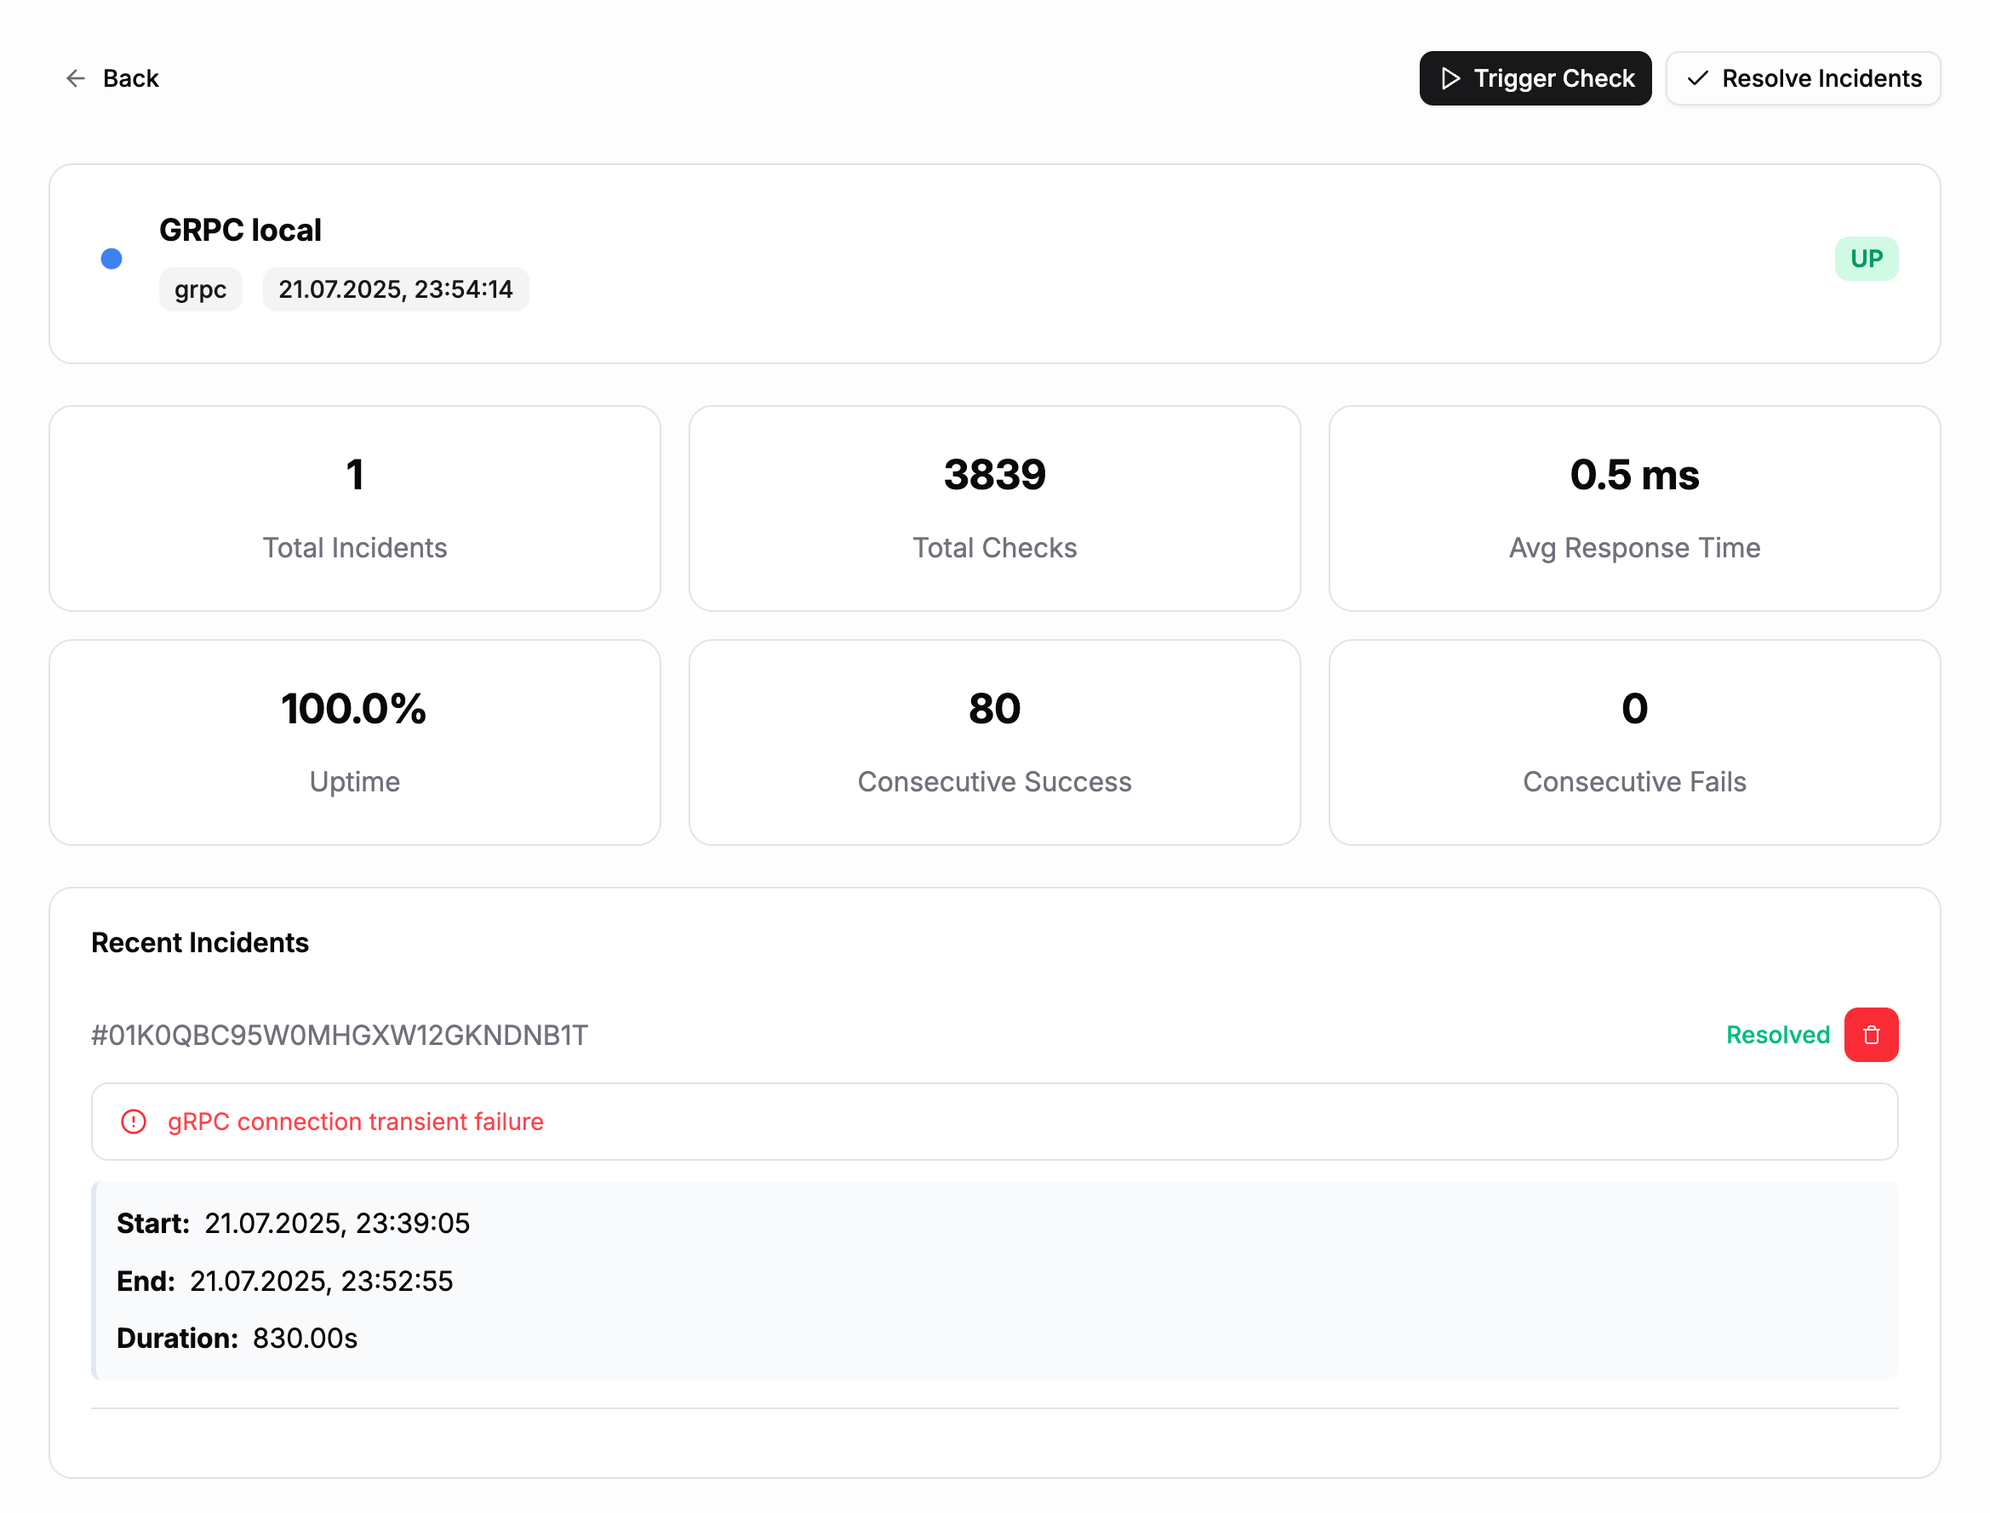
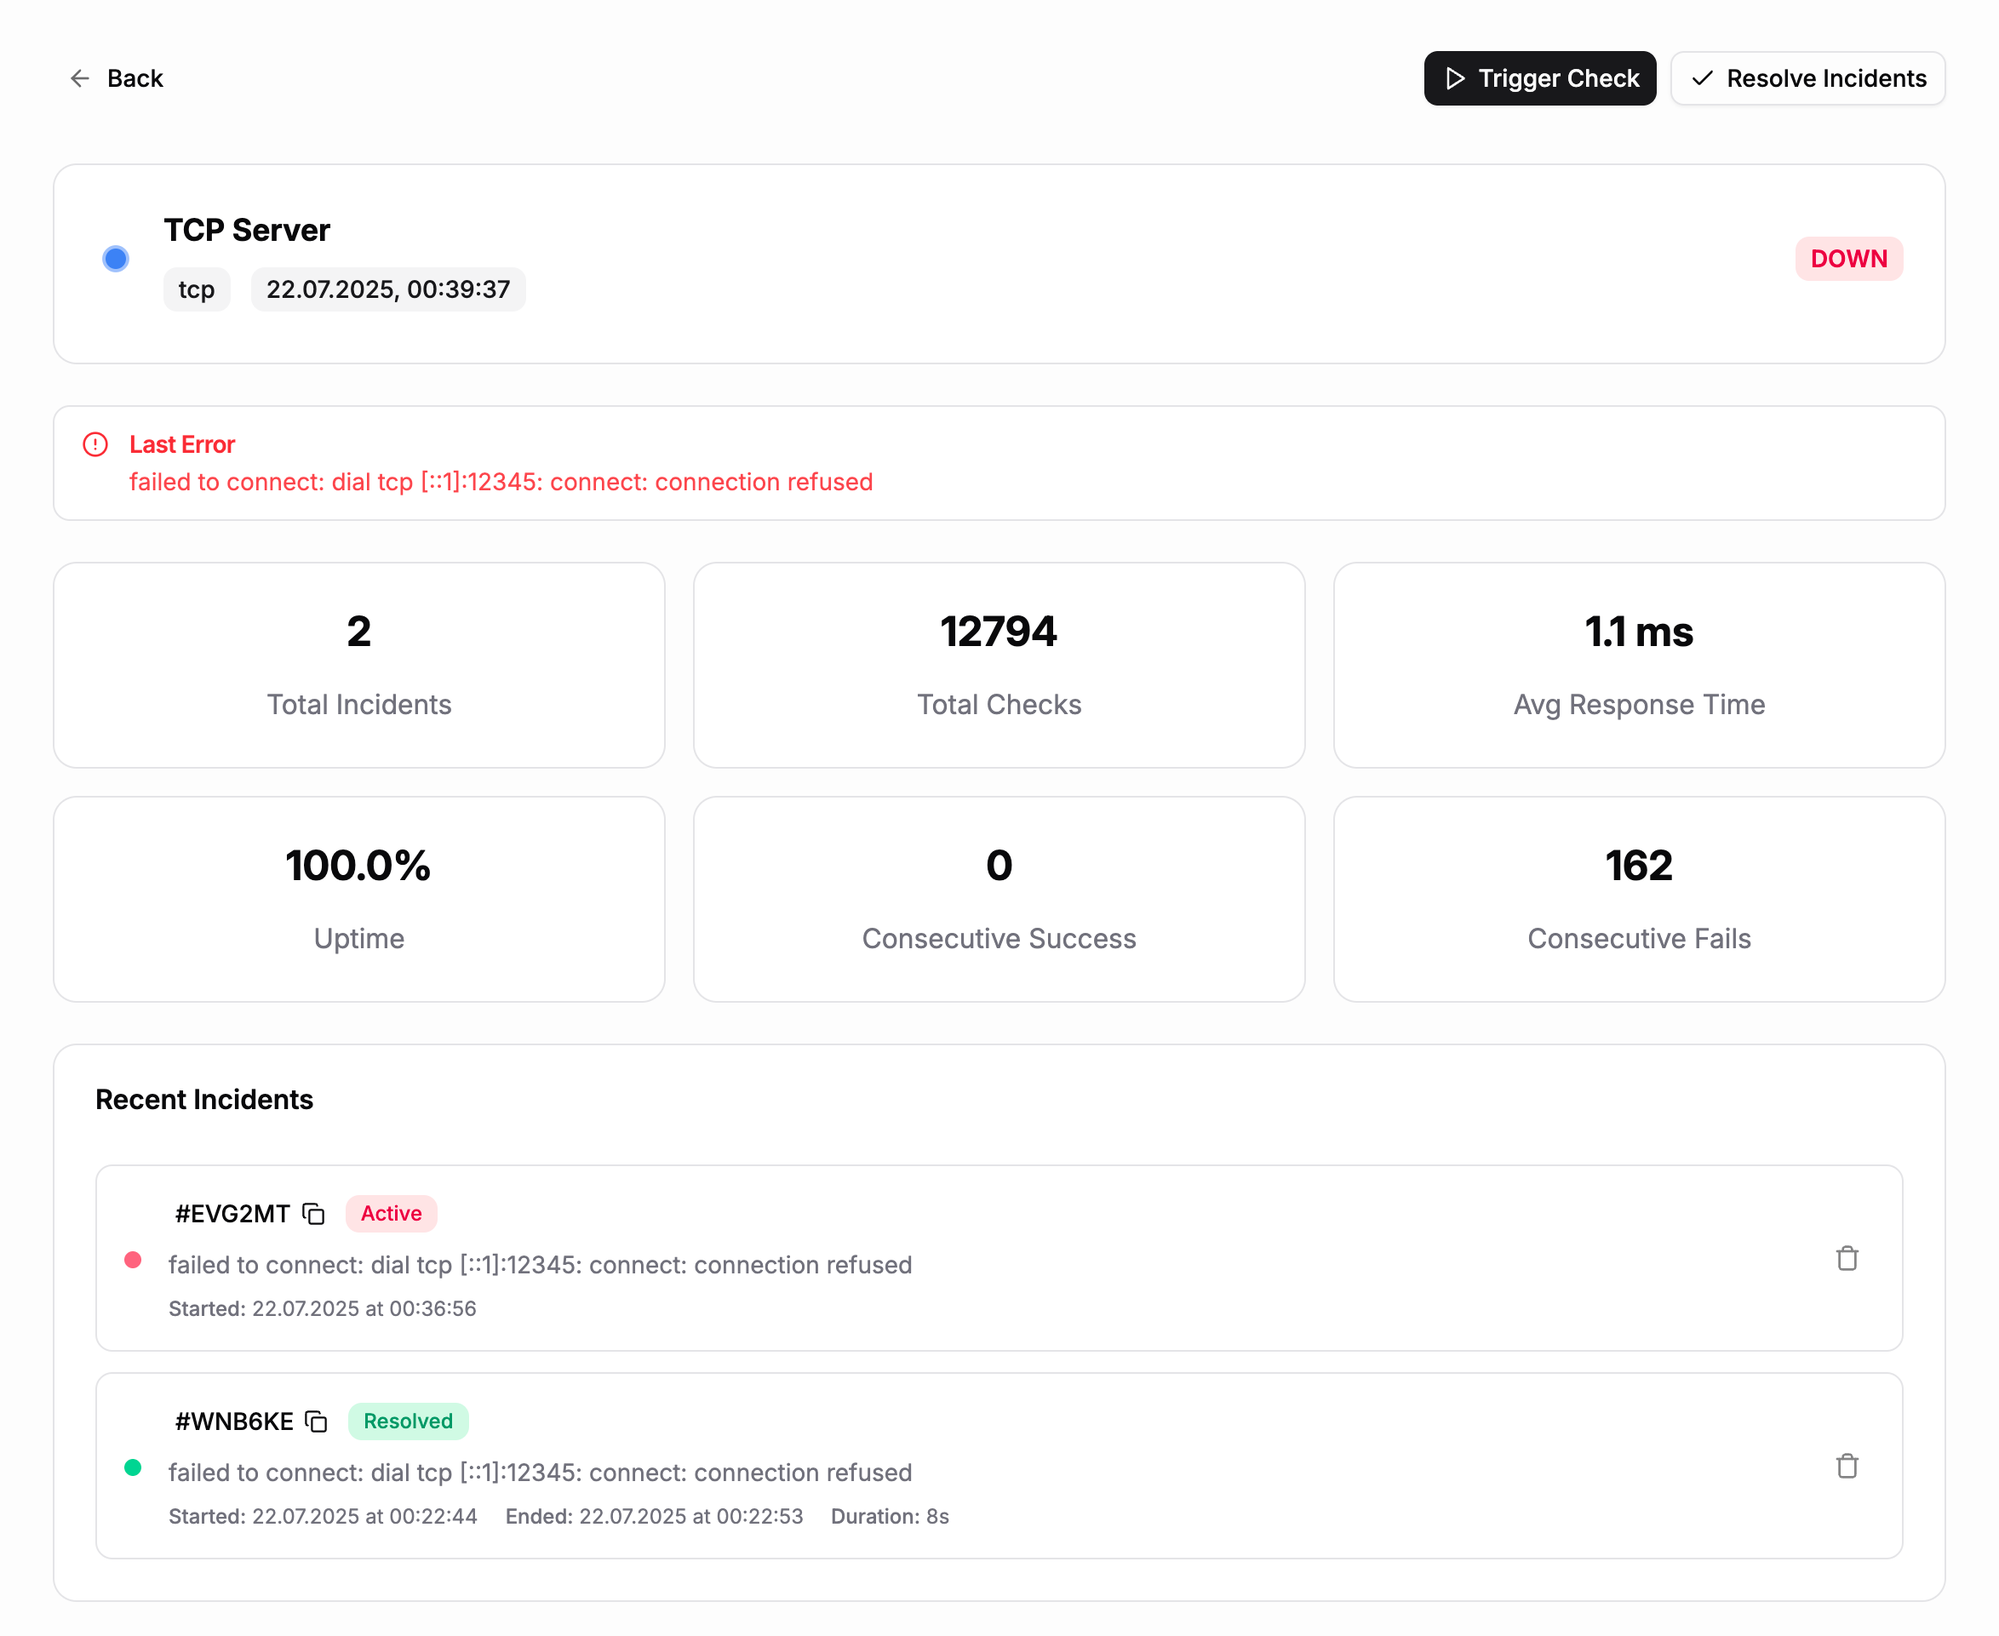
feat: Enhance incident management with copy functionality and improved error display

diff --git a/frontend/src/pages/service/serviceDetail.tsx b/frontend/src/pages/service/serviceDetail.tsx
@@ -18,6 +18,9 @@ import {
   CircleAlertIcon,
   PlayIcon,
   TrashIcon,
+  CopyIcon,
+  ChevronDown,
+  ChevronUp,
 } from "lucide-react";
 import { useIsMobile } from "@/shared/hooks/useIsMobile";
 import { cn } from "@/shared/lib/utils";
@@ -33,6 +36,7 @@ import {
   AlertDescription,
   AlertTitle,
 } from "@/shared/components/ui/alert";
+import { useState } from "react";
 
 const ServiceDetail = () => {
   const {
@@ -51,6 +55,67 @@ const ServiceDetail = () => {
     onResolveIncident,
   } = useServiceDetail();
   const isMobile = useIsMobile();
+
+  // State to track expanded incident errors
+  const [expandedIncidents, setExpandedIncidents] = useState<Set<string>>(
+    new Set()
+  );
+
+  // State to track copied incident IDs
+  const [copiedIncidents, setCopiedIncidents] = useState<Set<string>>(
+    new Set()
+  );
+
+  const toggleIncidentExpansion = (incidentId: string) => {
+    setExpandedIncidents((prev) => {
+      const newSet = new Set(prev);
+      if (newSet.has(incidentId)) {
+        newSet.delete(incidentId);
+      } else {
+        newSet.add(incidentId);
+      }
+      return newSet;
+    });
+  };
+
+  const handleCopyIncidentId = async (incidentId: string) => {
+    try {
+      await navigator.clipboard.writeText(incidentId);
+      setCopiedIncidents((prev) => new Set(prev).add(incidentId));
+      setTimeout(() => {
+        setCopiedIncidents((prev) => {
+          const newSet = new Set(prev);
+          newSet.delete(incidentId);
+          return newSet;
+        });
+      }, 1500);
+    } catch (err) {
+      console.error("Failed to copy incident ID: ", err);
+    }
+  };
+
+  // Helper function to format duration from nanoseconds to human readable format
+  const formatDuration = (nanoseconds: number) => {
+    const seconds = Math.floor(nanoseconds / 1000000000);
+    const minutes = Math.floor(seconds / 60);
+    const hours = Math.floor(minutes / 60);
+    const days = Math.floor(hours / 24);
+
+    if (days > 0) {
+      const remainingHours = hours % 24;
+      const remainingMinutes = minutes % 60;
+      return `${days}d ${remainingHours}h ${remainingMinutes}m`;
+    } else if (hours > 0) {
+      const remainingMinutes = minutes % 60;
+      const remainingSeconds = seconds % 60;
+      return `${hours}h ${remainingMinutes}m ${remainingSeconds}s`;
+    } else if (minutes > 0) {
+      const remainingSeconds = seconds % 60;
+      return `${minutes}m ${remainingSeconds}s`;
+    } else {
+      return `${seconds}s`;
+    }
+  };
 
   if (!serviceDetailData || !incidentsData || !serviceStatsData)
     return <Loader loaderPage />;
@@ -240,77 +305,188 @@ const ServiceDetail = () => {
           <CardHeader>
             <CardTitle>Recent Incidents</CardTitle>
           </CardHeader>
-          <CardContent className="flex flex-col gap-2">
-            {incidentsData.length === 0 && (
-              <div className="flex items-center justify-center h-full">
-                <p className="text-muted-foreground text-sm font-medium">
-                  No incidents found
-                </p>
+          <CardContent>
+            {incidentsData.length === 0 ? (
+              <div className="text-center py-12">
+                <CircleAlertIcon className="mx-auto h-12 w-12 text-muted-foreground/50 mb-4" />
+                <p className="text-muted-foreground">No incidents found</p>
               </div>
-            )}
-            {incidentsData?.map((incident: Incident) => (
-              <div key={incident.id}>
-                <div className="flex items-center justify-between flex-col md:flex-row">
-                  <span className="text-muted-foreground">#{incident.id}</span>
-                  <div className="flex items-center gap-2">
-                    <span
-                      className={cn(
-                        "text-muted-foreground text-sm font-medium",
-                        incident.resolved && "text-emerald-500",
-                        !incident.resolved && "text-rose-500"
-                      )}
-                    >
-                      {incident.resolved ? "Resolved" : "Active"}
-                    </span>
-                    <Button
-                      size="sm"
-                      variant="destructive"
-                      className="p-0"
-                      onClick={() => setDeleteIncident(incident)}
-                    >
-                      <TrashIcon className="size-3" />
-                    </Button>
-                  </div>
-                </div>
-                <Alert variant="destructive" className="mt-3">
-                  <CircleAlertIcon />
-                  <AlertDescription>
-                    <div dangerouslySetInnerHTML={{ __html: incident.error }} />
-                  </AlertDescription>
-                </Alert>
-                <div className="flex flex-col gap-2 incident-details">
-                  <div className="flex items-center gap-2">
-                    <strong>Start:</strong>{" "}
-                    {new Date(incident.start_time).toLocaleString()}
-                  </div>
-                  <div className="flex items-center gap-2">
-                    <strong>End:</strong>{" "}
-                    {incident.end_time
-                      ? new Date(incident.end_time).toLocaleString()
-                      : "Still Active"}
-                  </div>
-
-                  {incident.duration ? (
-                    <div className="flex items-center gap-2">
-                      <strong>Duration:</strong>{" "}
-                      {Number(incident.duration / 1000000000).toFixed(2)}s
+            ) : (
+              <div className="space-y-3">
+                {incidentsData?.map((incident: Incident) => (
+                  <div
+                    key={incident.id}
+                    className="flex items-center gap-4 p-4 rounded-lg border bg-card hover:shadow-sm transition-shadow"
+                  >
+                    {/* Status Indicator */}
+                    <div className="flex-shrink-0">
+                      <TooltipProvider>
+                        <Tooltip>
+                          <TooltipTrigger>
+                            <div
+                              className={cn(
+                                "w-2.5 h-2.5 rounded-full",
+                                incident.resolved
+                                  ? "bg-emerald-400"
+                                  : "bg-rose-400"
+                              )}
+                            />
+                          </TooltipTrigger>
+                          <TooltipContent>
+                            <p>
+                              {incident.resolved
+                                ? "Incident resolved"
+                                : "Active incident"}
+                            </p>
+                          </TooltipContent>
+                        </Tooltip>
+                      </TooltipProvider>
                     </div>
-                  ) : (
-                    ""
+
+                    {/* Main Content */}
+                    <div className="flex-1 min-w-0 space-y-2">
+                      <div className="flex items-center gap-2 text-sm flex-wrap">
+                        <TooltipProvider delayDuration={0}>
+                          <Tooltip>
+                            <TooltipTrigger asChild>
+                              <button
+                                onClick={() =>
+                                  handleCopyIncidentId(incident.id)
+                                }
+                                className="font-medium text-foreground hover:text-blue-600 transition-colors duration-200 inline-flex items-center gap-1.5 px-1 py-0.5 rounded hover:bg-blue-50 cursor-pointer"
+                                aria-label={
+                                  copiedIncidents.has(incident.id)
+                                    ? "Copied"
+                                    : "Copy incident ID"
+                                }
+                              >
+                                #{incident.id.slice(-6)}
+                                <div className="w-3.5 h-3.5 flex items-center justify-center">
+                                  {copiedIncidents.has(incident.id) ? (
+                                    <CheckIcon
+                                      className="stroke-emerald-500 transition-all duration-200"
+                                      aria-hidden="true"
+                                    />
+                                  ) : (
+                                    <CopyIcon
+                                      aria-hidden="true"
+                                      className="transition-all duration-200"
+                                    />
+                                  )}
+                                </div>
+                              </button>
+                            </TooltipTrigger>
+                            <TooltipContent className="px-2 py-1 text-xs">
+                              {copiedIncidents.has(incident.id)
+                                ? "Copied!"
+                                : "Click to copy ID"}
+                            </TooltipContent>
+                          </Tooltip>
+                        </TooltipProvider>
+
+                        <Badge
+                          variant={
+                            incident.resolved ? "default" : "destructive"
+                          }
+                          className={cn(
+                            "text-xs font-medium",
+                            incident.resolved &&
+                              "bg-emerald-100 text-emerald-600",
+                            !incident.resolved && "bg-rose-100 text-rose-600"
+                          )}
+                        >
+                          {incident.resolved ? "Resolved" : "Active"}
+                        </Badge>
+                      </div>
+
+                      <div className="text-sm text-muted-foreground">
+                        <div
+                          className={cn(
+                            !expandedIncidents.has(incident.id) &&
+                              "line-clamp-1"
+                          )}
+                          dangerouslySetInnerHTML={{ __html: incident.error }}
+                        />
+                        {/* Show toggle link if content is likely to be truncated or on mobile */}
+                        {incident.error &&
+                          (incident.error.length > 80 || isMobile) && (
+                            <button
+                              onClick={() =>
+                                toggleIncidentExpansion(incident.id)
+                              }
+                              className="inline-flex items-center gap-1 mt-2 px-2 py-1 text-xs font-medium text-blue-600 bg-blue-50 hover:bg-blue-100 hover:text-blue-700 rounded-md transition-colors duration-200"
+                            >
+                              {expandedIncidents.has(incident.id) ? (
+                                <>
+                                  <ChevronUp size={18} />
+                                  Show less
+                                </>
+                              ) : (
+                                <>
+                                  <ChevronDown size={18} />
+                                  Show more
+                                </>
+                              )}
+                            </button>
+                          )}
+                      </div>
+
+                      <div className="flex flex-wrap gap-2 md:gap-4 text-xs text-muted-foreground">
+                        <div>
+                          <span className="font-medium">Started:</span>{" "}
+                          {new Date(incident.start_time).toLocaleDateString()}{" "}
+                          at{" "}
+                          {new Date(incident.start_time).toLocaleTimeString()}
+                        </div>
+                        {incident.end_time && (
+                          <div>
+                            <span className="font-medium">Ended:</span>{" "}
+                            {new Date(incident.end_time).toLocaleDateString()}{" "}
+                            at{" "}
+                            {new Date(incident.end_time).toLocaleTimeString()}
+                          </div>
+                        )}
+                        {incident.duration && (
+                          <div>
+                            <span className="font-medium">Duration:</span>{" "}
+                            {formatDuration(incident.duration)}
+                          </div>
+                        )}
+                      </div>
+                    </div>
+
+                    {/* Action Button */}
+                    <div className="flex-shrink-0">
+                      <Button
+                        size="sm"
+                        variant="ghost"
+                        className="h-8 w-8 p-0 opacity-50 hover:opacity-100"
+                        onClick={() => setDeleteIncident(incident)}
+                      >
+                        <TrashIcon className="h-3.5 w-3.5" />
+                      </Button>
+                    </div>
+                  </div>
+                ))}
+
+                {incidentsCount != null &&
+                  incidentsCount > filters.pageSize && (
+                    <div className="pt-4">
+                      <PaginationTable
+                        className="px-0"
+                        selectedRows={filters.pageSize}
+                        setSelectedRows={(value) =>
+                          setFilters({ pageSize: value })
+                        }
+                        selectedPage={filters.page}
+                        setSelectedPage={(value) => setFilters({ page: value })}
+                        totalPages={Math.ceil(
+                          (incidentsCount ?? 0) / filters.pageSize
+                        )}
+                      />
+                    </div>
                   )}
-                </div>
-                <hr className="my-4" />
               </div>
-            ))}
-            {incidentsCount != null && incidentsCount > filters.pageSize && (
-              <PaginationTable
-                className="px-0"
-                selectedRows={filters.pageSize}
-                setSelectedRows={(value) => setFilters({ pageSize: value })}
-                selectedPage={filters.page}
-                setSelectedPage={(value) => setFilters({ page: value })}
-                totalPages={Math.ceil((incidentsCount ?? 0) / filters.pageSize)}
-              />
             )}
           </CardContent>
         </Card>

diff --git a/internal/storage/orm.go b/internal/storage/orm.go
@@ -251,7 +251,9 @@ func (o *ORMStorage) ResolveAllIncidents(ctx context.Context, serviceID string) 
 				ub.Assign("duration_ns", now.Sub(item.StartTime)),
 				ub.Assign("updated_at", now),
 			).
-			Where(ub.Equal("service_id", serviceID))
+			Where(
+				ub.Equal("id", item.ID),
+			)
 
 		sql, args := ub.Build()
 		if _, err := tx.ExecContext(ctx, sql, args...); err != nil {
